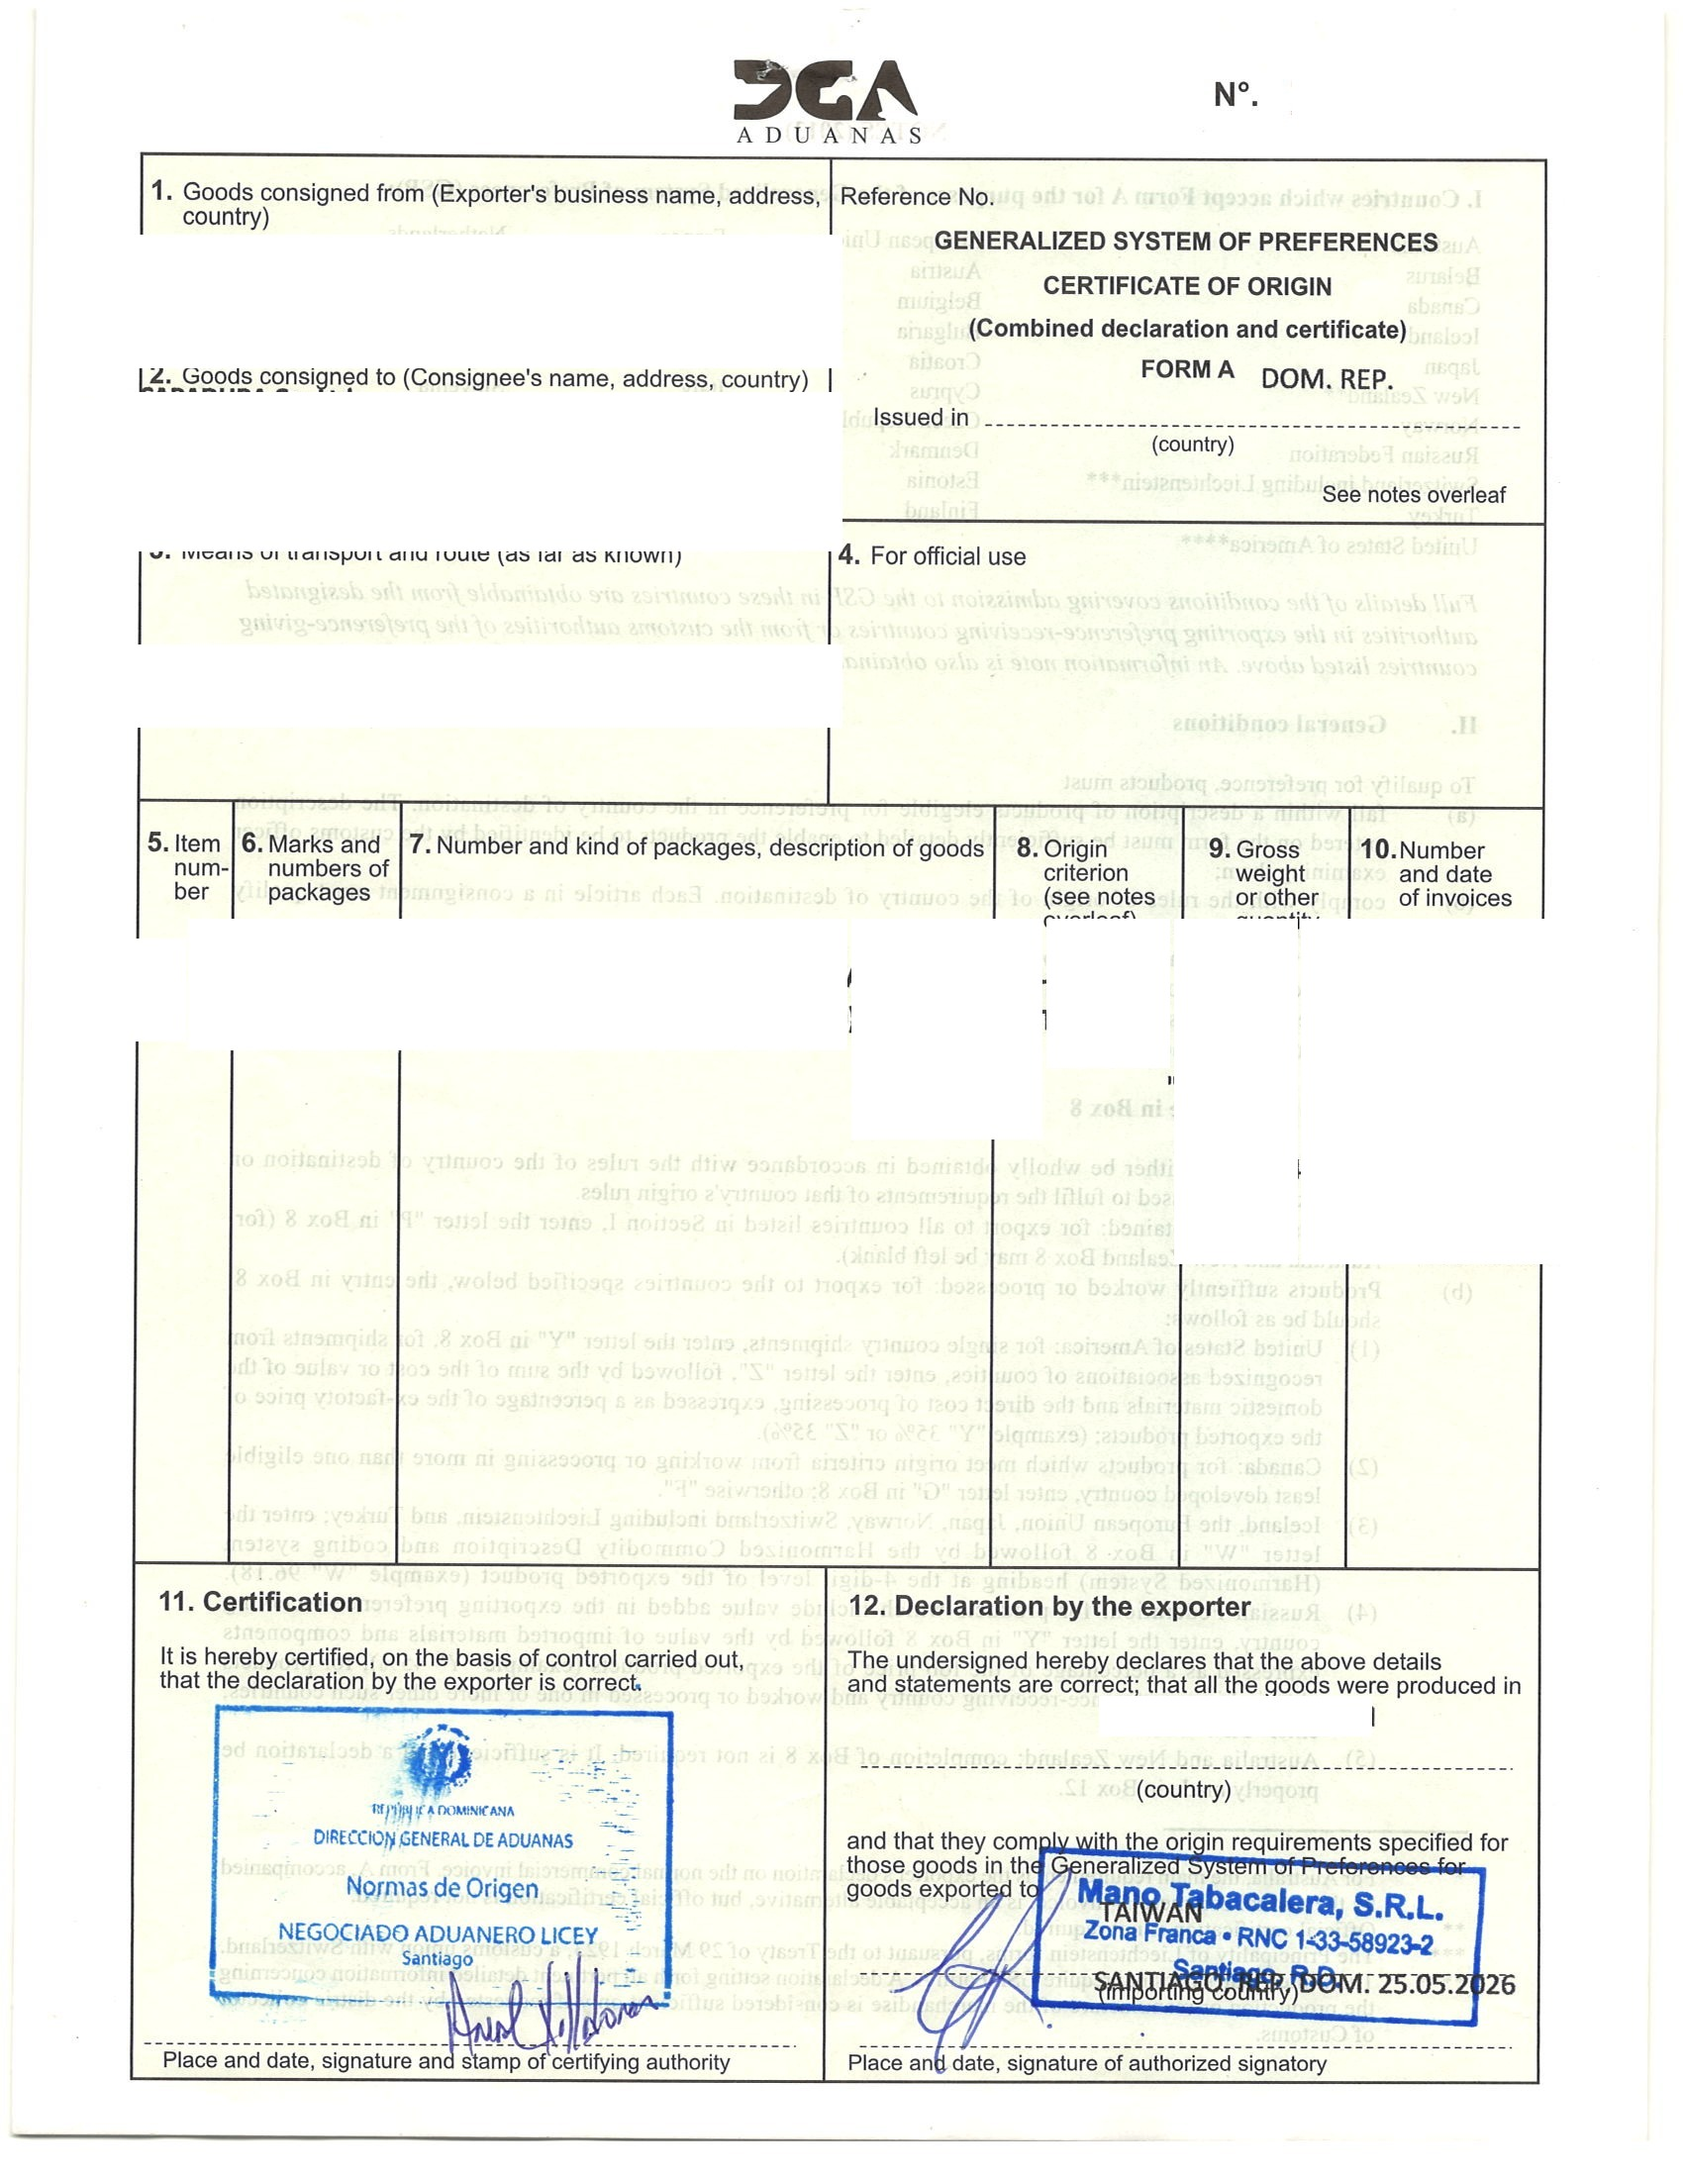
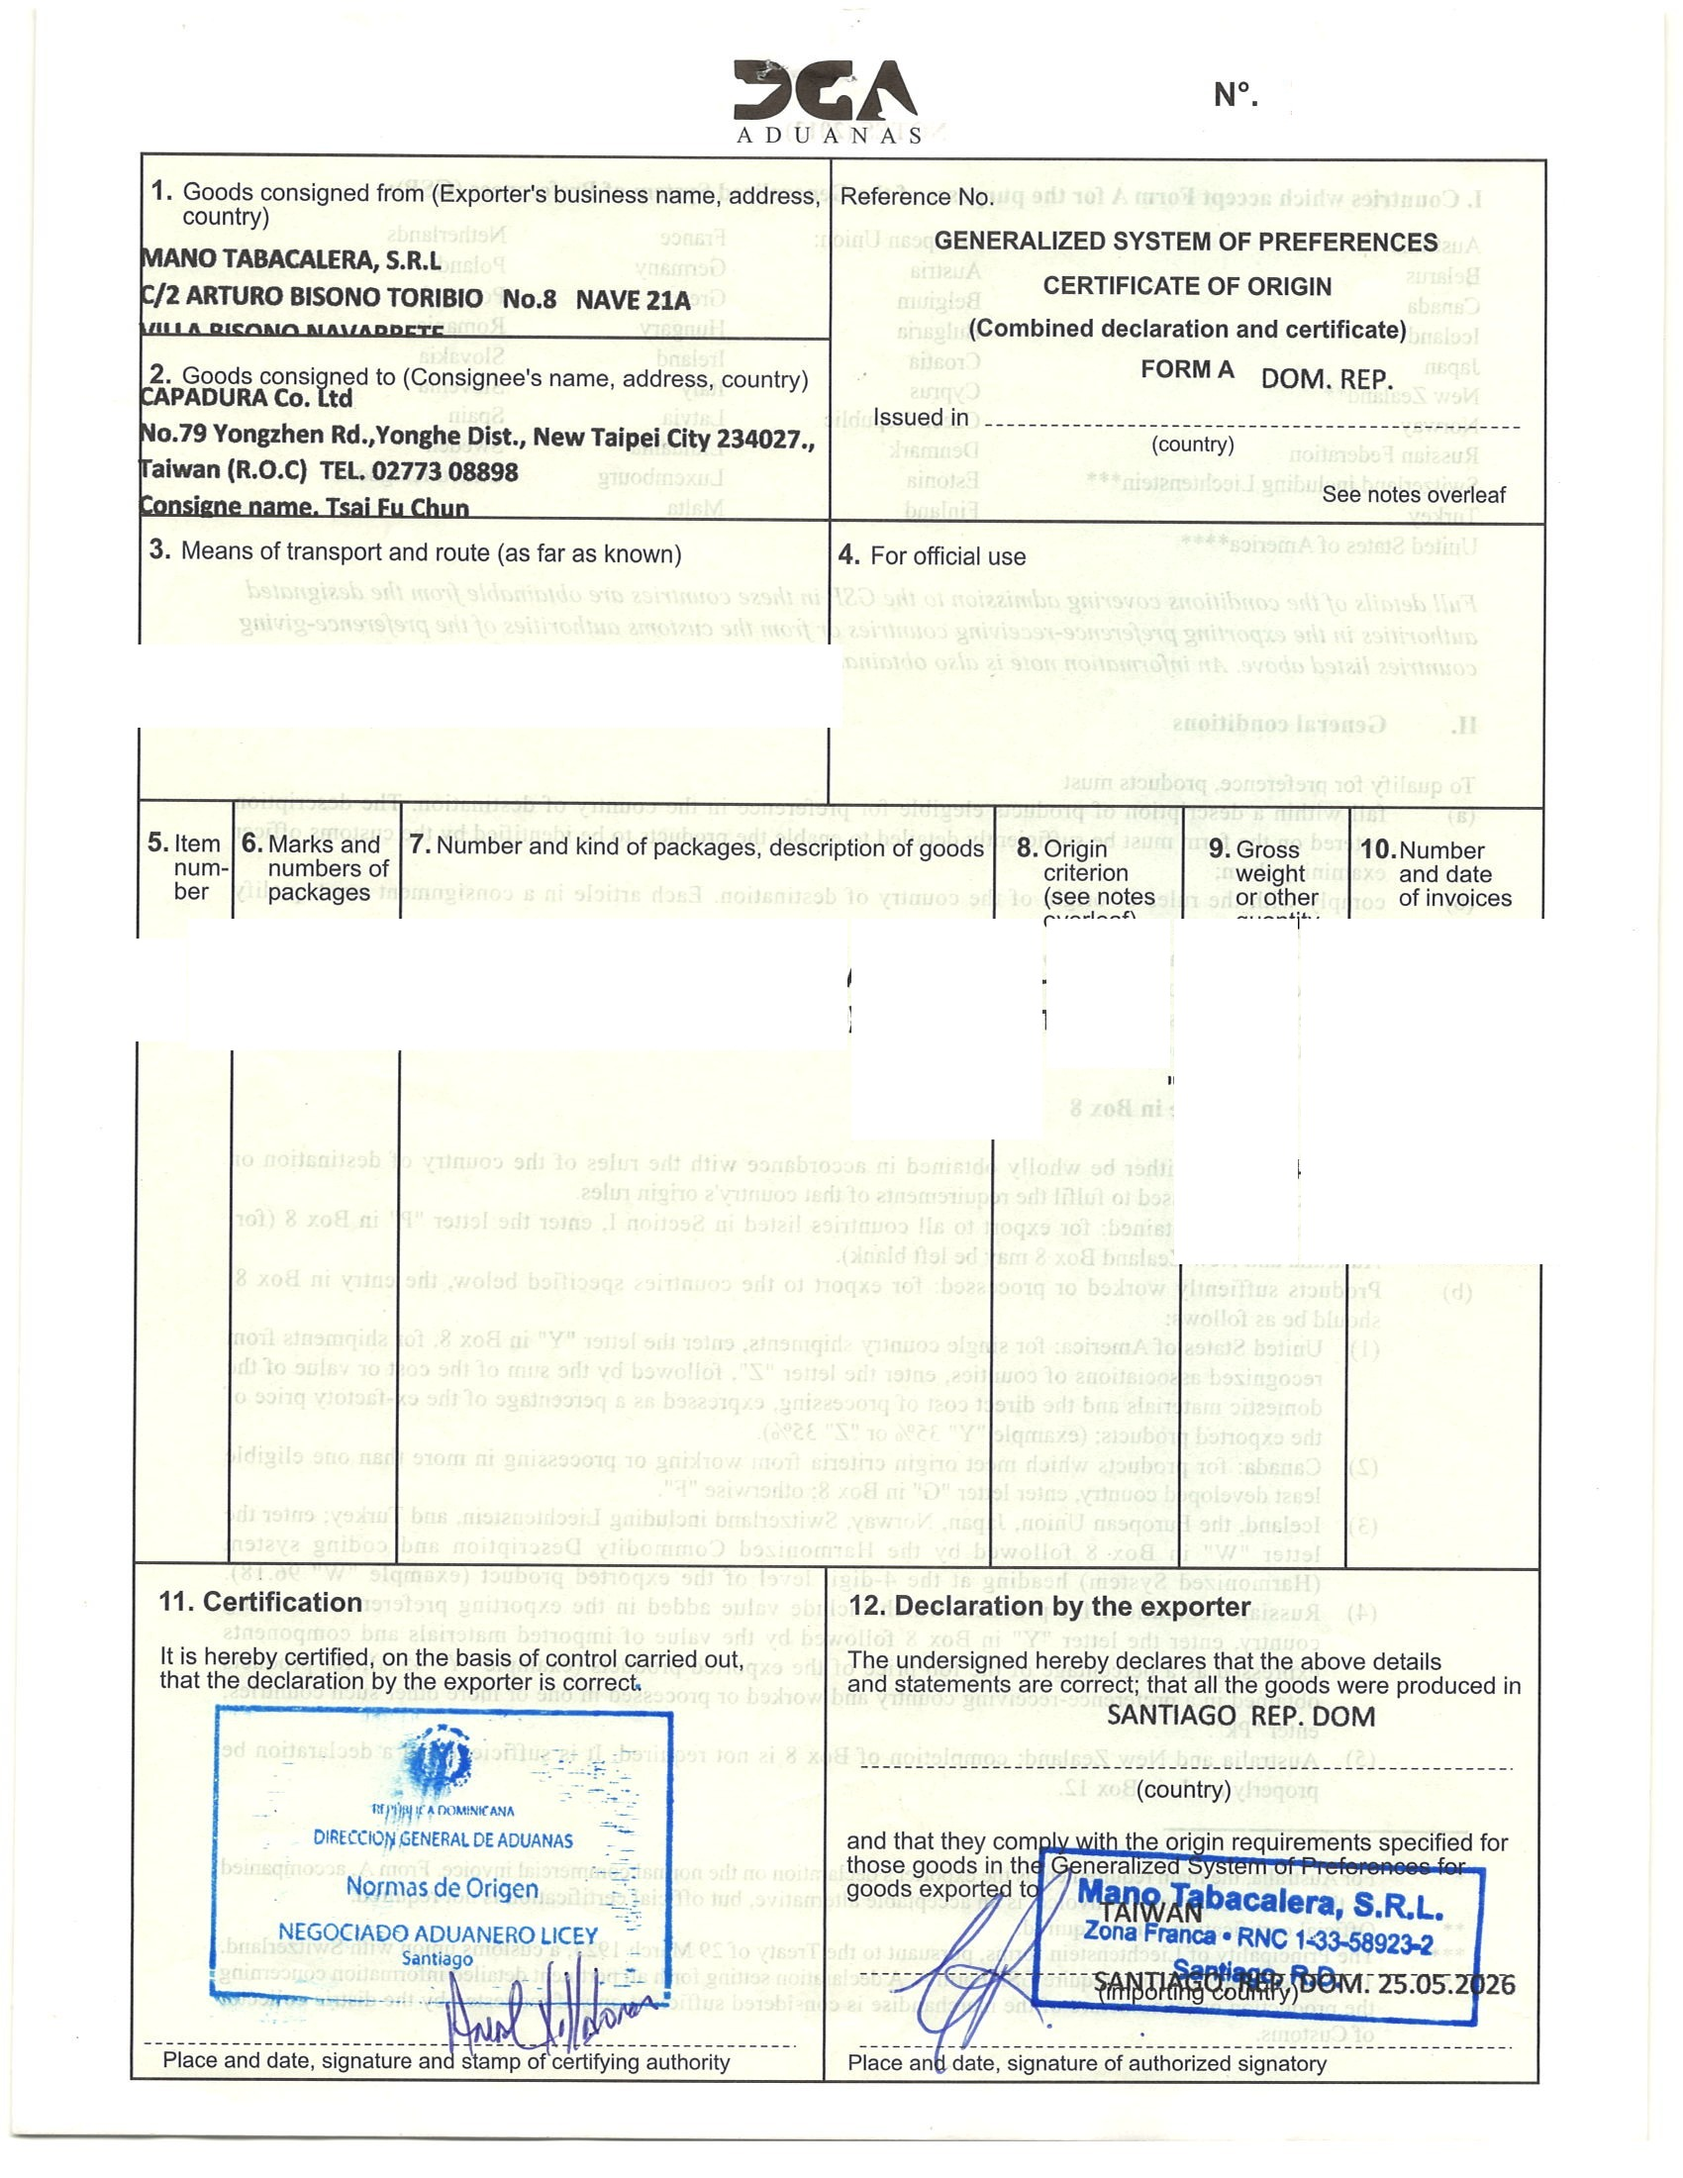
fix(customs): 產地證明字體 1:1 — 固定欄位保留正本原字、變動欄位修字級裁切
Wilson 要求「所有字體細節 1:1」。前版把固定欄位也塗白逼用 Arial 重填、
字體不一致；又因 global.css 的 input{font-size:16px!important;padding:..!important}
蓋掉 cqw 字級與 padding，長字（45 KGS/67-006）被擠爆裁切。

- 乾淨底圖只塗白「每批會變」欄位；出口商/收貨人/生產國保留正本掃描原字（天生 1:1）
- 移除固定欄位輸入框，交給底圖顯示
- applyFieldStyles 用 inline !important 搶回 font-size(cqw)/padding/min-height/border
  （React style prop 無法設 important、且全域 input !important 會蓋掉）
- 變動欄位字重改 regular、字級對齊正本，desc 不再折行、crit8/weight 完整顯示

Changed region(s): [[0.0624, 0.0927, 0.4988, 0.2473], [0.6547, 0.7727, 0.8106, 0.8036]]

diff --git a/src/pages/admin/CertificateFormA.jsx b/src/pages/admin/CertificateFormA.jsx
@@ -14,32 +14,30 @@ import html2canvas from "html2canvas-pro";
 const BG_SRC = "/customs/form-a-bg-clean.jpg";
 
 // id, left%, top%, width%, height%, multiline, fontSize(cqw), color, align
+// 注意：出口商 / 收貨人 / 生產國 = 正本固定內容，保留在底圖（原版字體 1:1），不放輸入框。
+//       只有每批會變的欄位才做成可填。
 const FIELDS = [
-  ["certNo",    76.471,  1.000, 15.882, 3.000, false, 2.5, "#c00", "center"],
-  ["exporter",  11.471, 11.045, 38.529, 6.136, true,  1.85, "#000", "left"],
-  ["consignee", 11.471, 19.000, 38.529, 6.000, true,  1.85, "#000", "left"],
-  ["transport", 11.471, 29.909, 38.529, 2.636, false, 1.95, "#000", "left"],
-  ["desc",      11.471, 43.000, 40.706, 4.545, true,  1.90, "#000", "left"],
-  ["marks",     51.000, 48.545, 11.000, 2.455, false, 1.90, "#000", "center"],
-  ["item5",      5.700, 44.500,  5.300, 2.818, false, 1.90, "#000", "center"],
-  ["crit8",     62.500, 43.300,  7.000, 2.818, false, 1.90, "#000", "center"],
-  ["weight9",   70.000, 51.500,  7.100, 2.636, false, 1.90, "#000", "center"],
-  ["inv10a",    78.000, 43.300, 17.000, 2.545, false, 1.90, "#000", "center"],
-  ["inv10b",    78.000, 55.000, 17.000, 2.545, false, 1.90, "#000", "center"],
-  ["prod12",    63.000, 78.000, 19.000, 2.000, false, 1.90, "#000", "center"],
+  ["certNo",    77.000,  2.300, 17.500, 3.300, false, 2.00, "#c00", "center"],
+  ["transport",  6.000, 30.400, 43.000, 2.600, false, 1.55, "#000", "left"],
+  ["item5",      5.700, 44.500,  5.000, 2.800, false, 1.50, "#000", "center"],
+  ["desc",      11.000, 43.000, 46.000, 4.500, true,  1.20, "#000", "left"],
+  ["marks",     51.000, 48.545, 11.000, 2.400, false, 1.45, "#000", "center"],
+  ["crit8",     62.300, 43.200,  7.200, 2.600, false, 1.10, "#000", "center"],
+  ["weight9",   69.900, 52.000,  7.400, 2.600, false, 1.20, "#000", "center"],
+  ["inv10a",    78.000, 43.200, 17.000, 2.500, false, 1.50, "#000", "center"],
+  ["inv10b",    78.000, 55.500, 17.000, 2.500, false, 1.50, "#000", "center"],
 ];
 
 const LABELS = {
-  certNo: "證明號 N°", exporter: "出口商", consignee: "收貨人", transport: "運送/航班",
+  certNo: "證明號 N°", transport: "運送/航班",
   desc: "貨物說明", marks: "嘜頭", item5: "項次", crit8: "原產地標準",
-  weight9: "毛重", inv10a: "發票號", inv10b: "發票日期", prod12: "生產國",
+  weight9: "毛重", inv10a: "發票號", inv10b: "發票日期",
 };
 
-// 正本內容當預設值（可直接改成新一批的資料）
+// 正本變動欄位的預設值（可直接改成新一批的資料）。
+// 出口商/收貨人/生產國等固定欄位由底圖顯示（正本原字），不在此。
 const DEFAULTS = {
   certNo: "154013",
-  exporter: "MANO TABACALERA, S.R.L\nC/2 ARTURO BISONO TORIBIO No.8 NAVE 21A\nVILLA BISONO NAVARRETE",
-  consignee: "CAPADURA Co. Ltd\nNo.79 Yongzhen Rd.,Yonghe Dist., New Taipei City 234027.,\nTaiwan (R.O.C)  TEL. 02773 08898\nConsigne name. Tsai Fu Chun",
   transport: "AMERIJET  AWB #810-43670255",
   desc: "1,250  UNIDADES DE CIGARROS DE LA FACTURA\nEMPACADOS EN TRS (3 ) CAJAS DE CARTON",
   marks: '"W" 2402',
@@ -48,7 +46,6 @@ const DEFAULTS = {
   weight9: "45 KGS",
   inv10a: "67-006",
   inv10b: "25.05.2026",
-  prod12: "SANTIAGO REP. DOM",
 };
 
 function CertificateFormA({ bgSrc = BG_SRC }) {
@@ -59,19 +56,31 @@ function CertificateFormA({ bgSrc = BG_SRC }) {
 
   const set = (id) => (e) => setVals((s) => ({ ...s, [id]: e.target.value }));
 
-  const centerSingles = useCallback(() => {
+  const applyFieldStyles = useCallback(() => {
     const root = sheetRef.current;
     if (!root) return;
+    // ⚠ 平台 global.css 有 `input,select,textarea{font-size:16px!important;padding:12px 16px!important;min-height:48px}`
+    //    （行動版響應式），會蓋掉本元件的 cqw 字級與緊湊 padding → 長字（45 KGS / 67-006）被擠爆裁切。
+    //    React style prop 無法設 !important，改用 inline !important 搶回控制權。
+    root.querySelectorAll(".cfa-fld").forEach((el) => {
+      const fs = el.dataset.fs;
+      if (fs) el.style.setProperty("font-size", fs + "cqw", "important");
+      el.style.setProperty("padding", "0 2px", "important");
+      el.style.setProperty("min-height", "0", "important");
+      el.style.setProperty("border", "0", "important");
+      el.style.setProperty("background-color", "transparent", "important");
+      el.style.setProperty("border-radius", "0", "important");
+    });
     root.querySelectorAll("input.cfa-fld").forEach((el) => {
       el.style.lineHeight = el.clientHeight + "px";
     });
   }, []);
 
   useLayoutEffect(() => {
-    centerSingles();
-    window.addEventListener("resize", centerSingles);
-    return () => window.removeEventListener("resize", centerSingles);
-  }, [centerSingles]);
+    applyFieldStyles();
+    window.addEventListener("resize", applyFieldStyles);
+    return () => window.removeEventListener("resize", applyFieldStyles);
+  }, [applyFieldStyles, vals, showFields]);
 
   // ⬇ 下載 PDF（用 html2canvas-pro + jsPDF、Letter 直式）
   async function downloadPdf() {
@@ -195,7 +204,7 @@ function CertificateFormA({ bgSrc = BG_SRC }) {
           </label>
         </div>
         <div className="cfa-hint">
-          💡 上方改完會立即同步到下方表單；其他欄位（出口商/收貨人/生產國）可直接在表單上點擊修改。預設帶入正本內容，按「↩ 還原正本內容」可復原。
+          💡 出口商 / 收貨人 / 生產國 = 正本固定內容，已保留正本原字（無需修改）。其餘每批會變的欄位（證明號 / 發票號 / 發票日期 / 品名數量 / 毛重 / 嘜頭 / 運送）可在上方或直接點下方表單修改。按「↩ 還原正本內容」可復原。
         </div>
       </div>
 
@@ -203,15 +212,17 @@ function CertificateFormA({ bgSrc = BG_SRC }) {
         <div ref={sheetRef} className={"cfa-sheet" + (showFields ? " show-fields" : "")}>
           <img src={bgSrc} alt="Form A 產地證明" draggable={false} crossOrigin="anonymous" />
           {FIELDS.map(([id, l, t, w, h, multi, fs, color, align]) => {
+            // fontSize 不放 style prop（會被 global.css 的 16px!important 蓋掉且 React 會清掉我們補的 important）
+            // → 改用 data-fs，由 applyFieldStyles 以 inline !important 套用。
             const style = {
               left: l + "%", top: t + "%", width: w + "%", height: h + "%",
-              fontSize: fs + "cqw", color, textAlign: align,
+              color, textAlign: align,
             };
             return multi ? (
-              <textarea key={id} className="cfa-fld ml" data-label={LABELS[id]}
+              <textarea key={id} className="cfa-fld ml" data-label={LABELS[id]} data-fs={fs}
                 placeholder=" " style={style} value={vals[id] || ""} onChange={set(id)} />
             ) : (
-              <input key={id} className="cfa-fld" data-label={LABELS[id]}
+              <input key={id} className="cfa-fld" data-label={LABELS[id]} data-fs={fs}
                 placeholder=" " style={style} value={vals[id] || ""} onChange={set(id)} />
             );
           })}
@@ -286,7 +297,7 @@ const CSS = `
 .cfa-sheet img{position:absolute;inset:0;width:100%;height:100%;display:block;
  user-select:none;pointer-events:none;}
 .cfa-fld{position:absolute;border:0;background:transparent;font-family:Arial,"Helvetica Neue",sans-serif;
- font-weight:700;line-height:1.12;padding:0 2px;outline:none;resize:none;overflow:hidden;
+ font-weight:400;line-height:1.12;padding:0 2px;outline:none;resize:none;overflow:hidden;
  -webkit-print-color-adjust:exact;print-color-adjust:exact;}
 .cfa-fld:not(.ml){line-height:1;white-space:nowrap;}
 .cfa-fld::placeholder{color:transparent;}
